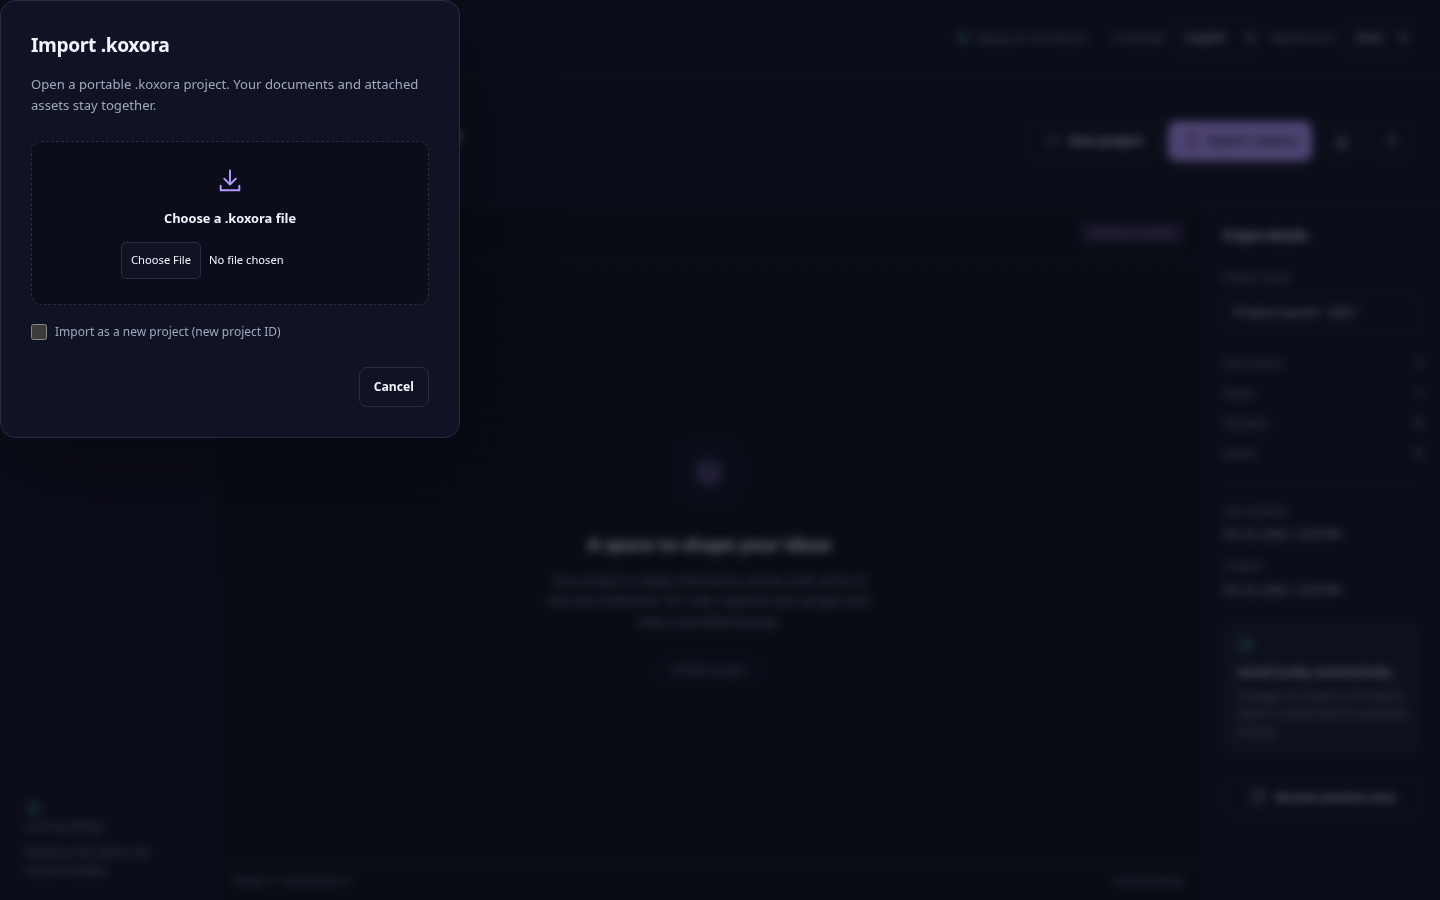
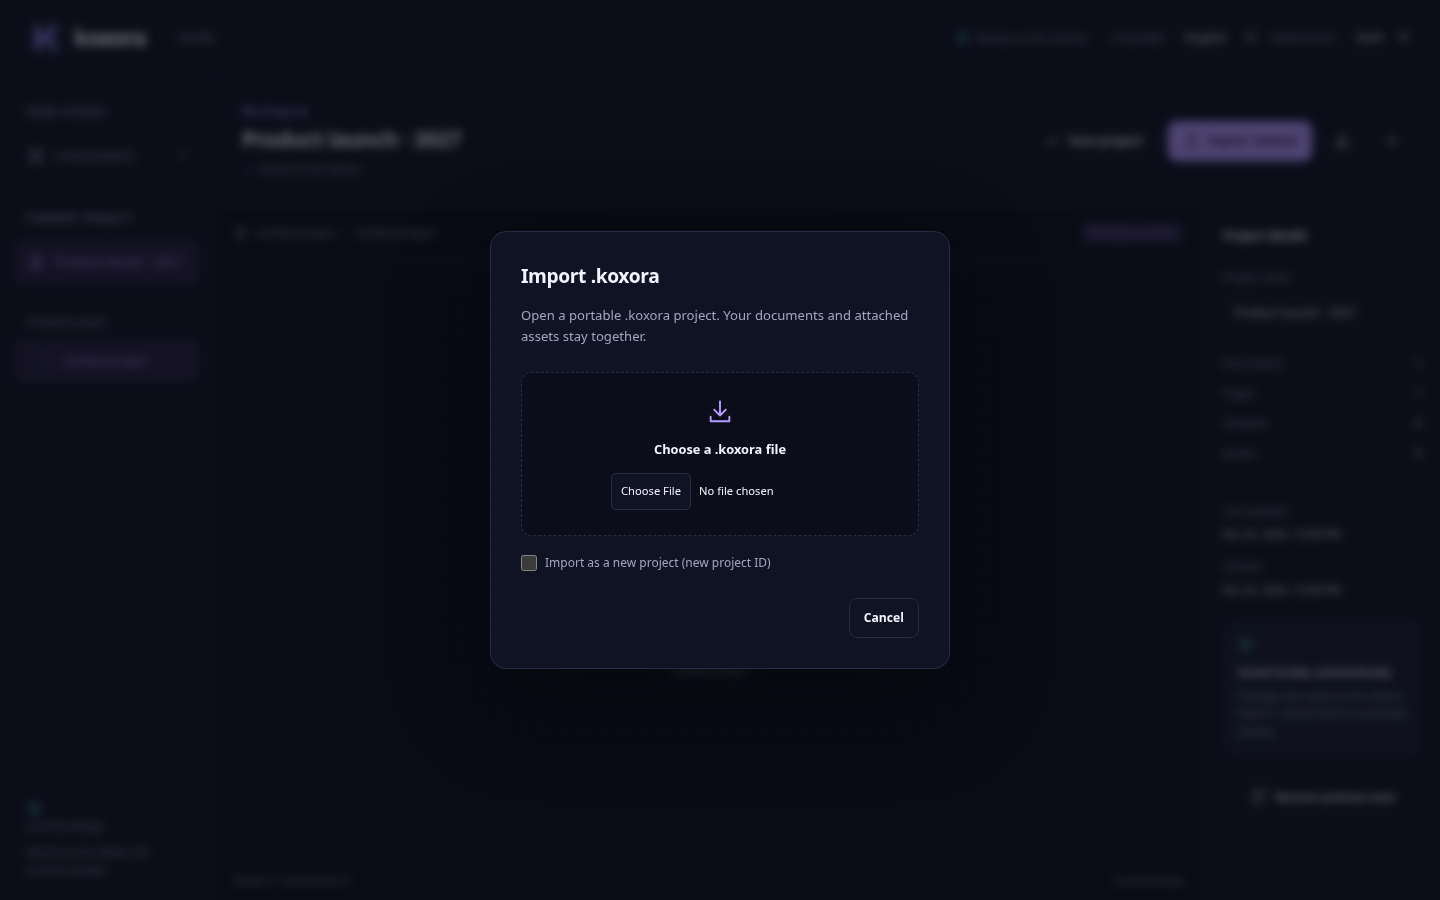
fix: center modal dialogs within the viewport

diff --git a/tests/browser/workspace.spec.ts b/tests/browser/workspace.spec.ts
@@ -62,6 +62,14 @@ test('import dialog traps keyboard focus and Escape restores its trigger', async
   await trigger.click();
   const dialog = page.getByRole('dialog');
   await expect(dialog).toBeVisible();
+  const centered = await dialog.evaluate((el) => {
+    const box = el.getBoundingClientRect();
+    return (
+      Math.abs(box.x + box.width / 2 - innerWidth / 2) < 2 &&
+      Math.abs(box.y + box.height / 2 - innerHeight / 2) < 2
+    );
+  });
+  expect(centered).toBe(true);
   for (let i = 0; i < 7; i++) {
     await page.keyboard.press('Tab');
     expect(

diff --git a/packages/ui/src/styles.css b/packages/ui/src/styles.css
@@ -790,6 +790,9 @@ dd {
   }
 }
 dialog {
+  margin: auto;
+  max-height: calc(100dvh - 32px);
+  overflow-y: auto;
   color: var(--ink);
   background: var(--surface);
   border: 1px solid var(--line);

diff --git a/docs/design/phase-2.1-ux.md b/docs/design/phase-2.1-ux.md
@@ -60,4 +60,4 @@ Local checks on 2026-10-22: full `pnpm check` passed (TypeScript, ESLint, format
 
 The isolated Rust storage/export harness passed 13 tests and Clippy with warnings denied. Full local `cargo check --locked` stopped at the missing GLib development prerequisite; it does not establish Tauri integration success. Existing GitHub Actions run full native build, Clippy/tests and package generation on Linux, Windows, Apple Silicon macOS and Intel macOS, plus the unchanged Rust supply-chain gate. The final PR records the actual workflow results and artifact links.
 
-Independent review examined the implementation and tests and reran TypeScript, ESLint and all 93 unit tests. Its external-writer concurrency qualification is incorporated above. A subsequent browser test exposed a modal Tab-wrap issue; the shared dialog now explicitly wraps first/last focus, and desktop/mobile regression tests pass. Native OS dialogs remain a manual acceptance step.
+Independent review examined the implementation and tests and reran TypeScript, ESLint and all 93 unit tests. Its external-writer concurrency qualification is incorporated above. A subsequent browser test exposed a modal Tab-wrap issue; the shared dialog now explicitly wraps first/last focus, and desktop/mobile regression tests pass. Final screenshot review also caught the CSS reset removing native dialog centering; explicit auto margins and viewport height bounds correct it, with a browser geometry assertion. Native OS dialogs remain a manual acceptance step.
